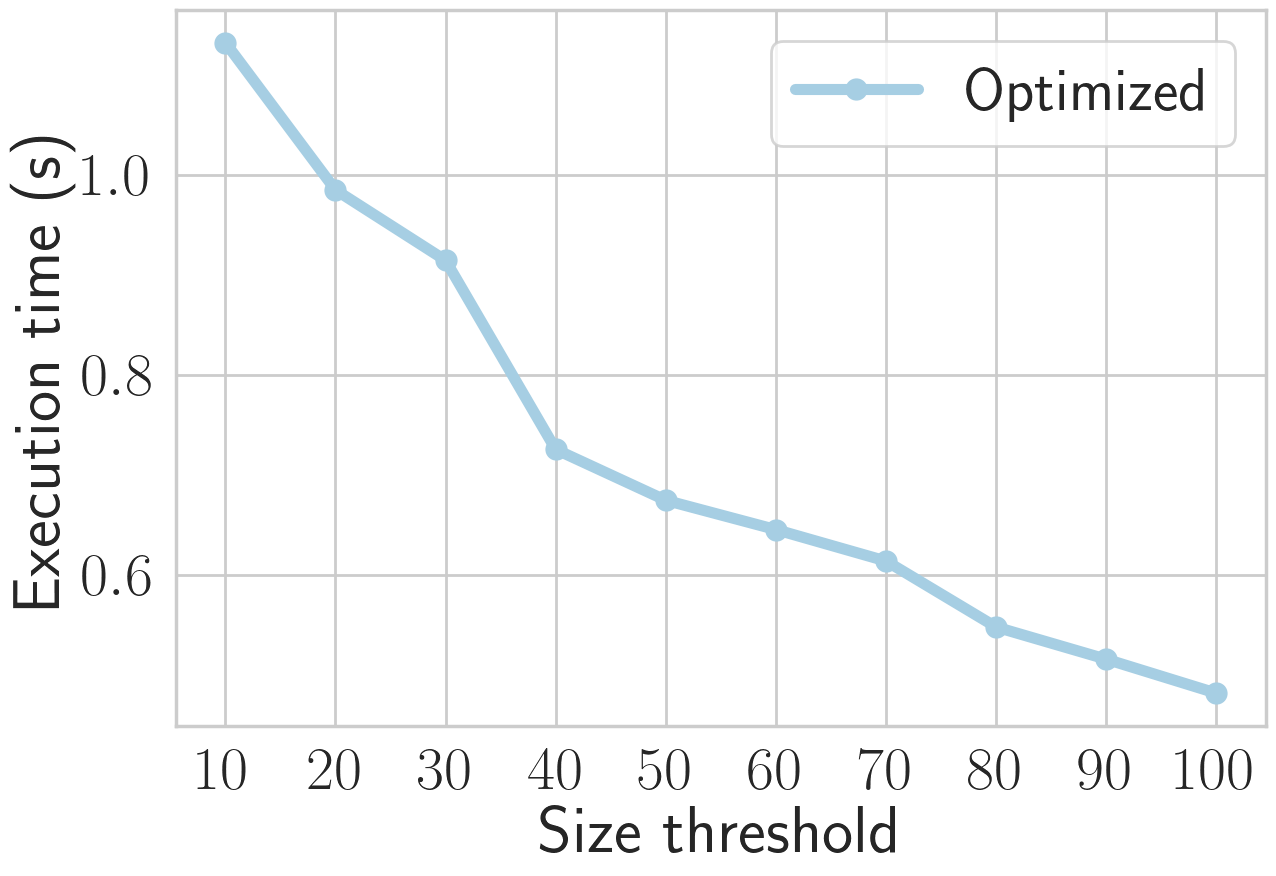
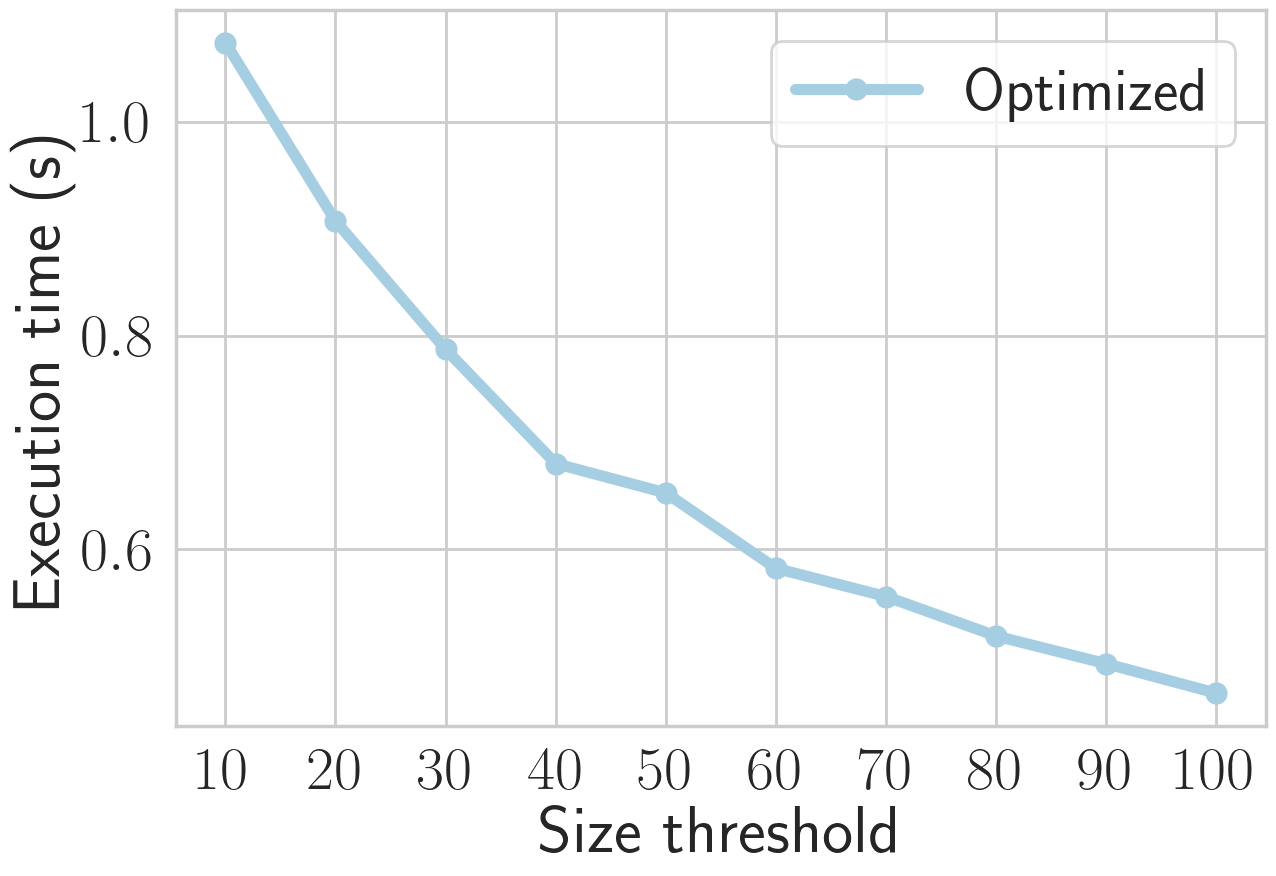
general, compas, thc

diff --git a/Coding/Experiments/General_FP/CompasData/Thc_2_20210701.py b/Coding/Experiments/General_FP/CompasData/Thc_2_20210701.py
@@ -75,19 +75,19 @@ all_attributes = ['sexC', 'ageC', 'raceC', 'MC', 'priors_count_C', 'c_charge_deg
 
 Thc_list = [10, 20, 30, 40, 50, 60, 70, 80, 90, 100]
 
-original_data_file = "../../../../InputData/CompasData/Preprocessed_classified/RecidivismData_13att_classified.csv"
+original_data_file = "../../../../InputData/CompasData/Preprocessed_classified/RecidivismData_17att_classified.csv"
 less_attribute_data = pd.read_csv(original_data_file)[all_attributes]
-FP_data_file = "../../../../InputData/CompasData/Preprocessed_classified/RecidivismData_13att_classified_FP.csv"
+FP_data_file = "../../../../InputData/CompasData/Preprocessed_classified/RecidivismData_17att_classified_FP.csv"
 FP = pd.read_csv(FP_data_file)[all_attributes]
-TP_data_file = "../../../../InputData/CompasData/Preprocessed_classified/RecidivismData_13att_classified_TP.csv"
+TP_data_file = "../../../../InputData/CompasData/Preprocessed_classified/RecidivismData_17att_classified_TP.csv"
 TP = pd.read_csv(TP_data_file)[all_attributes]
-FN_data_file = "../../../../InputData/CompasData/Preprocessed_classified/RecidivismData_13att_classified_FN.csv"
+FN_data_file = "../../../../InputData/CompasData/Preprocessed_classified/RecidivismData_17att_classified_FN.csv"
 FN = pd.read_csv(FN_data_file)[all_attributes]
-TN_data_file = "../../../../InputData/CompasData/Preprocessed_classified/RecidivismData_13att_classified_TN.csv"
+TN_data_file = "../../../../InputData/CompasData/Preprocessed_classified/RecidivismData_17att_classified_TN.csv"
 TN = pd.read_csv(TN_data_file)[all_attributes]
 
 overall_FPR = len(FP) / (len(FP) + len(TN))
-time_limit = 5*60
+time_limit = 10*60
 execution_time1 = list()
 
 num_calculation1 = list()
@@ -122,7 +122,7 @@ for thc in Thc_list:
 
 
         if t1_ > time_limit:
-            print("new alg exceeds time limit")
+            raise Exception("new alg exceeds time limit")
 
         if l == 0:
             result_cardinality = len(pattern_with_low_fairness1)
